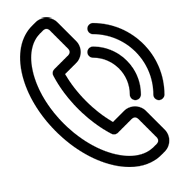
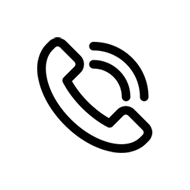
Added images, updated CSS and HTML

Changed region(s): [[0.1053, 0.0789, 0.8947, 0.8947], [0.4474, 0.5263, 0.4737, 0.5526]]

diff --git a/assets/css/style.css b/assets/css/style.css
@@ -129,21 +129,8 @@ main h2 {
     margin-left: 10px;
 }
 
-/* Trying to get this to create a border around the divs in the flex-container class. */
-section .flex-container {
-    display: flex;
-    flex-wrap: wrap;
-    width: auto;
-    /* flex-direction: row;
-    justify-content: center; */
-    /* min-height: 210px; */
-    border: var(--dark-purp) 5px solid;
-    border-radius: 15px;
-    /* margin: 10px; */
-    /* padding: 5%; */
-}
-
 /* The code below updates the sections inside of main. */
+
 /* ABOUT SECTION */
 #about {
     margin-top: 74px;
@@ -172,27 +159,90 @@ section .flex-container {
     background-image: linear-gradient(to right, #C3A6DC, #fff);
 }
 
-#work div {
-    display: flex;
-    flex-direction: row;
-    align-items: flex-end;
-    justify-content: center;
-    flex-wrap: wrap;
-    flex-basis: 50%;
-    box-sizing: content-box;
-    min-height: 50%px;
-    /* min-width: 50%; */
-    margin: 10px;
+#work h3 {
+    color: #000;
+    background-color: rgb(221, 210, 244, 0.8);
     padding: 10px;
+    border-radius: 15px;
+}
 
+/* This container holds all .flex-box items. */
+.flex-container {
+    display: flex;
+    flex-wrap: wrap;
+    justify-content: center;
+}
+
+/* Trying to get this to create a border around the divs in the flex-box class. */
+.flex-box {
+    display: flex;
+    flex-wrap: wrap;
+    justify-content: space-evenly;
+    min-height: 10em;
+    border: var(--dark-purp) 5px solid;
+    border-radius: 15px;
+    margin: 1em;
+    padding: 5%;
+}
+
+.flex-box:hover {
+    border: var(--dark-yell) 5px solid;
+}
+
+.flex-box:active {
+    border: var(--dark-pink) 5px solid;
 }
 
 /* WORK SECTION > PROJECT1 */
 #project1 {
-    box-sizing: content-box;
-    min-height: 400px;
-    /* flex-basis: 100%; */
-    width: 100%;
+    display: flex;
+    background-image: url("../../assets/images/homework-1.png");
+    justify-content: flex-start;
+    align-items: flex-end;
+    background-repeat: no-repeat;
+    background-position: center;
+    min-height: 20em;
+    width: 82em;
+}
+
+#project2 {
+    display: flex;
+    justify-content: flex-start;
+    align-items: flex-end;
+    background-image: url("../../assets/images/homework-2.png");
+    background-repeat: no-repeat;
+    background-position: center;
+    width: 40em;
+}
+
+#project3 {
+    display: flex;
+    justify-content: flex-start;
+    align-items: flex-end;
+    background-image: url("../../assets/images/pattern.jpg");
+    background-repeat: no-repeat;
+    background-position: center;
+    width: 40em;
+}
+
+#project4 {
+    display: flex;
+    justify-content: flex-start;
+    align-items: flex-end;
+    background-image: url("../../assets/images/pattern.jpg");
+    background-repeat: no-repeat;
+    background-position: center;
+    width: 40em;
+}
+
+#project5 {
+    display: flex;
+    justify-content: flex-start;
+    align-items: flex-end;
+    background-image: url("../../assets/images/pattern.jpg");
+    background-repeat: no-repeat;
+    background-position: center;
+    width: 40em;
 }
 
 /* CONTACT SECTION */
@@ -207,39 +257,30 @@ section .flex-container {
     margin: auto;
 }
 
-#phone {
+.contact-circles img {
     border-radius: 50%;
     background-color: #fff;
-    border: 2px var(--dark-pink) solid;
     padding: 5px;
+}
+
+#phone {
+    border: 2px var(--dark-pink) solid;
 }
 
 #email {
-    border-radius: 50%;
-    background-color: #fff;
     border: 2px var(--dark-green) solid;
-    padding: 5px;
 }
 
 #linked-in {
-    border-radius: 50%;
-    background-color: #fff;
     border: 2px var(--dark-purp) solid;
-    padding: 5px;
 }
 
 #github {
-    border-radius: 50%;
-    background-color: #fff;
     border: 2px var(--dark-yell) solid;
-    padding: 5px;
 }
 
 #dev-art {
-    border-radius: 50%;
-    background-color: #fff;
     border: 2px var(--dark-pink) solid;
-    padding: 5px;
 }
 
 

diff --git a/index.html b/index.html
@@ -71,33 +71,33 @@
         <section id="work">
             <h2>My Work</h2>
             <br />
-            <div>
+            <div class="flex-container">
                 <a href="https://github.com/anakela/homework-1" title="Homework 1 - HTML CSS Git Challenge: Code Refactor" target="_blank">
-                    <div class="flex-container" id="project1">
+                    <div class="flex-box" id="project1">
                         <h3>#1 - HTML CSS Git Challenge: Code Refactor</h3>
                     </div>
                 </a>
                 
                 <a href="https://github.com/anakela/homework2" title="Homework 2 - Advanced CSS Challenge: Professional Portfolio" target="_blank">
-                    <div class="flex-container" id="project2">
+                    <div class="flex-box" id="project2">
                        <h3>#2 - Advanced CSS Challenge: Professional Portfolio</h3>
                     </div>
                 </a>
                 
-                <a href="#" title="_self" target="_self">
-                    <div class="flex-container" id="project3">
+                <a href="javascript:void(0);" title="_self" target="_self">
+                    <div class="flex-box" id="project3">
                         <h3>#3 - Upcoming Project 3</h3>
                     </div>
                 </a>
                 
-                <a href="#" title="_self" target="_self">
-                    <div class="flex-container" id="project4">
+                <a href="javascript:void(0);" title="_self" target="_self">
+                    <div class="flex-box" id="project4">
                         <h3>#4 - Upcoming Project 4</h3>
                     </div>
                 </a>
                 
-                <a href="#" title="_self" target="_self">
-                    <div class="flex-container" id="project5">
+                <a href="javascript:void(0);" title="_self" target="_self">
+                    <div class="flex-box" id="project5">
                         <h3>#5 - Upcoming Project 5</h3>
                     </div>
                 </a>
@@ -115,7 +115,7 @@
                 <a href="tel:8086518336" title="Call me!" target="_blank"><img id="phone" src="./assets/images/phone-icon.png" alt="Call me!" /></a>
                 <a href="mailto:angie@anakela.com" title="Send me a message!" target="_blank"><img id="email" src="./assets/images/email-icon.png" alt="Email me!" /></a>
                 <a href="https://www.linkedin.com/in/anakela/" title="View my LinkedIn profile!" target="_blank"><img id="linked-in" src="./assets/images/li-icon.png" alt="Connect with me on LinkedIn!" /></a>
-                <a href="https://github.com/anakela" title="Checke me out on GitHub!" target="_blank"><img id="github" src="./assets/images/gh-icon.png" alt="Look me up on GitHub!" /></a>
+                <a href="https://github.com/anakela" title="Check me out on GitHub!" target="_blank"><img id="github" src="./assets/images/gh-icon.png" alt="Look me up on GitHub!" /></a>
                 <a href="https://www.deviantart.com/red-rogue-angel" title="Check out my earlier works of art here" target="_blank"><img id="dev-art" src="./assets/images/da-icon.png" alt="Check out my art at DA!" /></a>
             </div> 
         </section>
